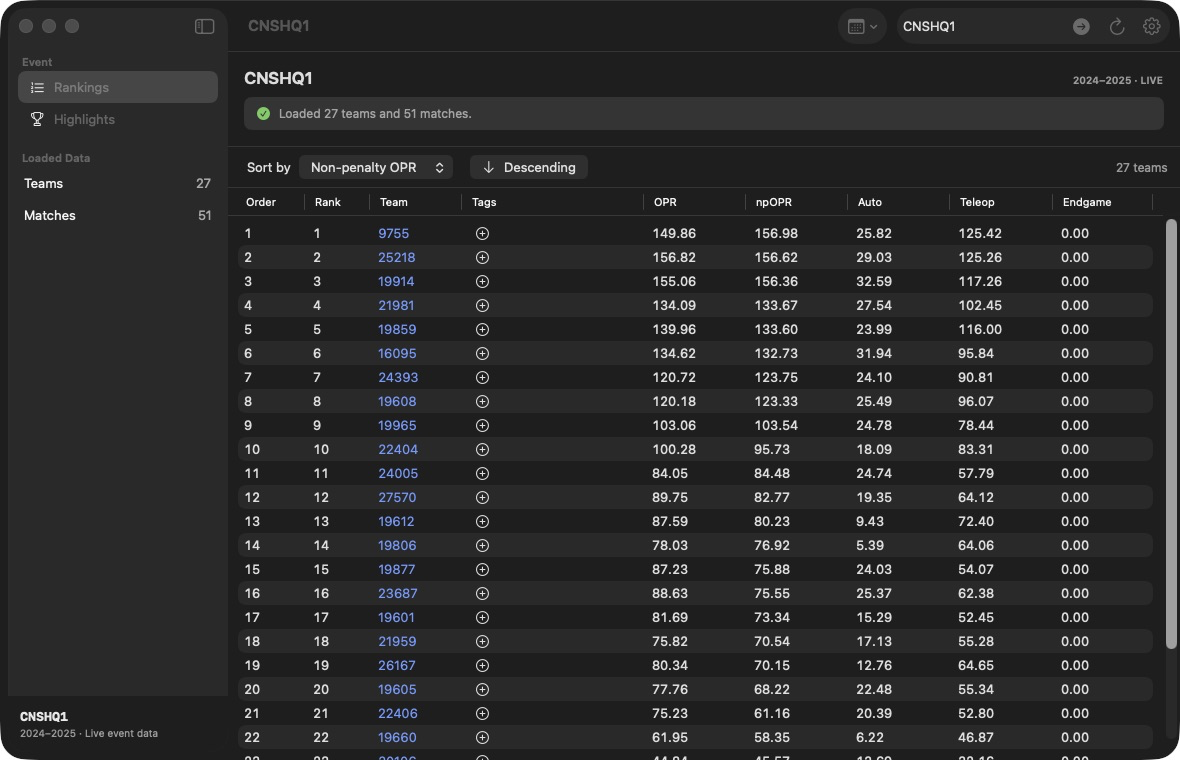
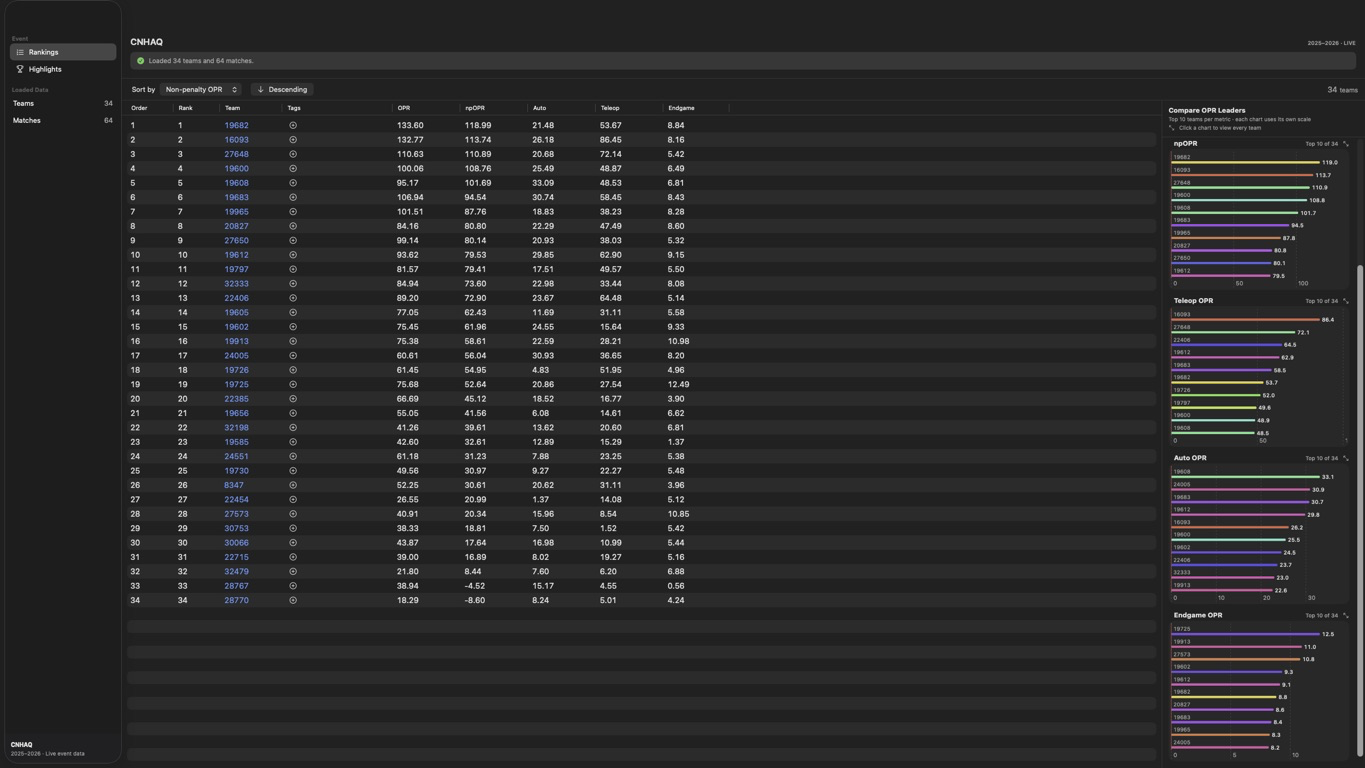
Document OPR comparison features and update app screenshots

diff --git a/README.md b/README.md
@@ -13,10 +13,56 @@
 </p>
 
 <p align="center">
-  <img src="docs/assets/app-demo.png" width="1100" alt="FTC Event Scout displaying sortable OPR rankings for a loaded event">
+  <img src="docs/assets/app-demo.png" width="1100" alt="FTC Event Scout showing a sortable event ranking table beside color-coded OPR bar charts">
 </p>
 
-**FTC Event Scout** is a native **macOS scouting app** for exploring FIRST Tech Challenge events. It combines live rankings, score highlights, team match history, detailed score breakdowns, and locally stored scouting tags in a SwiftUI interface.
+<p align="center">
+  <sub>Live rankings and color-coded OPR comparisons for every team at an event.</sub>
+</p>
+
+**FTC Event Scout** is a native **macOS scouting app** for exploring FIRST Tech Challenge events. It combines live rankings, comparative OPR charts, score highlights, team match history, detailed score breakdowns, and locally stored scouting tags in a SwiftUI interface.
+
+
+## Features
+
+- **Live event rankings.** Choose an FTC season, enter an event code, and load every registered team and scored match from FIRST Events.
+- **Sortable performance table.** Rank teams by official rank, team number, total OPR, non-penalty OPR (npOPR), Auto OPR, Teleop OPR, or Endgame OPR in either direction.
+- **Interactive OPR charts.** Compare the top 10 teams for OPR, npOPR, Teleop, Auto, and Endgame beside the rankings table. Every metric is ordered from highest at the top to lowest at the bottom.
+- **Full-event chart drill-down.** Click any compact graph to open a scrollable chart containing every team with an available value. Each team has a distinct color that remains consistent across metrics.
+- **Team match history.** Click a team number to inspect every event appearance, alliance partners, opponents, final and non-penalty scores, and the selected team's win/loss result.
+- **Detailed score breakdowns.** Expand a match to compare red and blue alliance scoring by season-specific Auto, Teleop, Endgame, and penalty categories.
+- **Event highlights.** Surface the highest final, non-penalty, Auto, and Teleop alliance scores, including ties and the teams responsible.
+- **Local scouting tags.** Add reusable, color-coded notes to teams and see them in rankings, highlights, and match history. Tags stay on the Mac.
+- **Pre-event previews.** If an event has not started, use FTCScout history to compare the registered teams' strongest prior-season OPR results.
+
+
+## Feature tour
+
+### Compare every OPR metric at a glance
+
+The Rankings view keeps the sortable team table and five compact bar charts visible together. Direct value labels make the charts readable without hovering, while stable team colors make it easier to follow the same team from OPR to npOPR, Auto, Teleop, and Endgame.
+
+Use the **Sort by** menu or a table header to change the ranking, then click any chart to move from its top-10 summary to the complete event field.
+
+### Open a complete event chart
+
+<p align="center">
+  <img src="docs/assets/opr-all-teams.png" width="720" alt="All-team npOPR chart ordered from the highest value at the top to the lowest value at the bottom">
+</p>
+
+The expanded chart includes every team with available data, exact values, negative-value handling, and the same cross-metric team colors used in the compact charts.
+
+### Follow a typical scouting workflow
+
+1. Select the season in the toolbar and enter the FIRST event code.
+2. Sort the Rankings table by the metric that matters to your scouting question.
+3. Compare the compact graphs or click one to inspect the whole-event distribution.
+4. Click a team number to open its match history, then expand **Score Breakdown** for alliance-level detail.
+5. Use the add-tag control to record traits such as `Strong Auto`, `Consistent`, or `Watch Defense`; reuse the same tag for other teams at that event.
+6. Open **Highlights** in the sidebar to find the matches and alliances behind the event's best scores.
+
+
+## How it works
 
 Choose a season and enter an event code; a loopback-only Python helper fetches FIRST Events data, generates CSVs, and calculates least-squares OPR estimates for total, non-penalty, autonomous, teleop, and endgame performance. The app turns those results into sortable tables so scouts can compare teams and inspect individual matches.
 
@@ -82,6 +128,6 @@ FTC_Event_Scout/
 ├── opr_calc.py                      standard-library least-squares solver
 ├── event_results/                   bundled seed match-detail CSVs
 ├── events_teams_opr/                bundled seed OPR CSVs
-├── tests/                            season-specific score breakdown tests
-└── docs/assets/                     README icon and application capture
+├── tests/                            Swift model/UI support tests and Python score tests
+└── docs/assets/                     README icon and current feature captures
 ```
